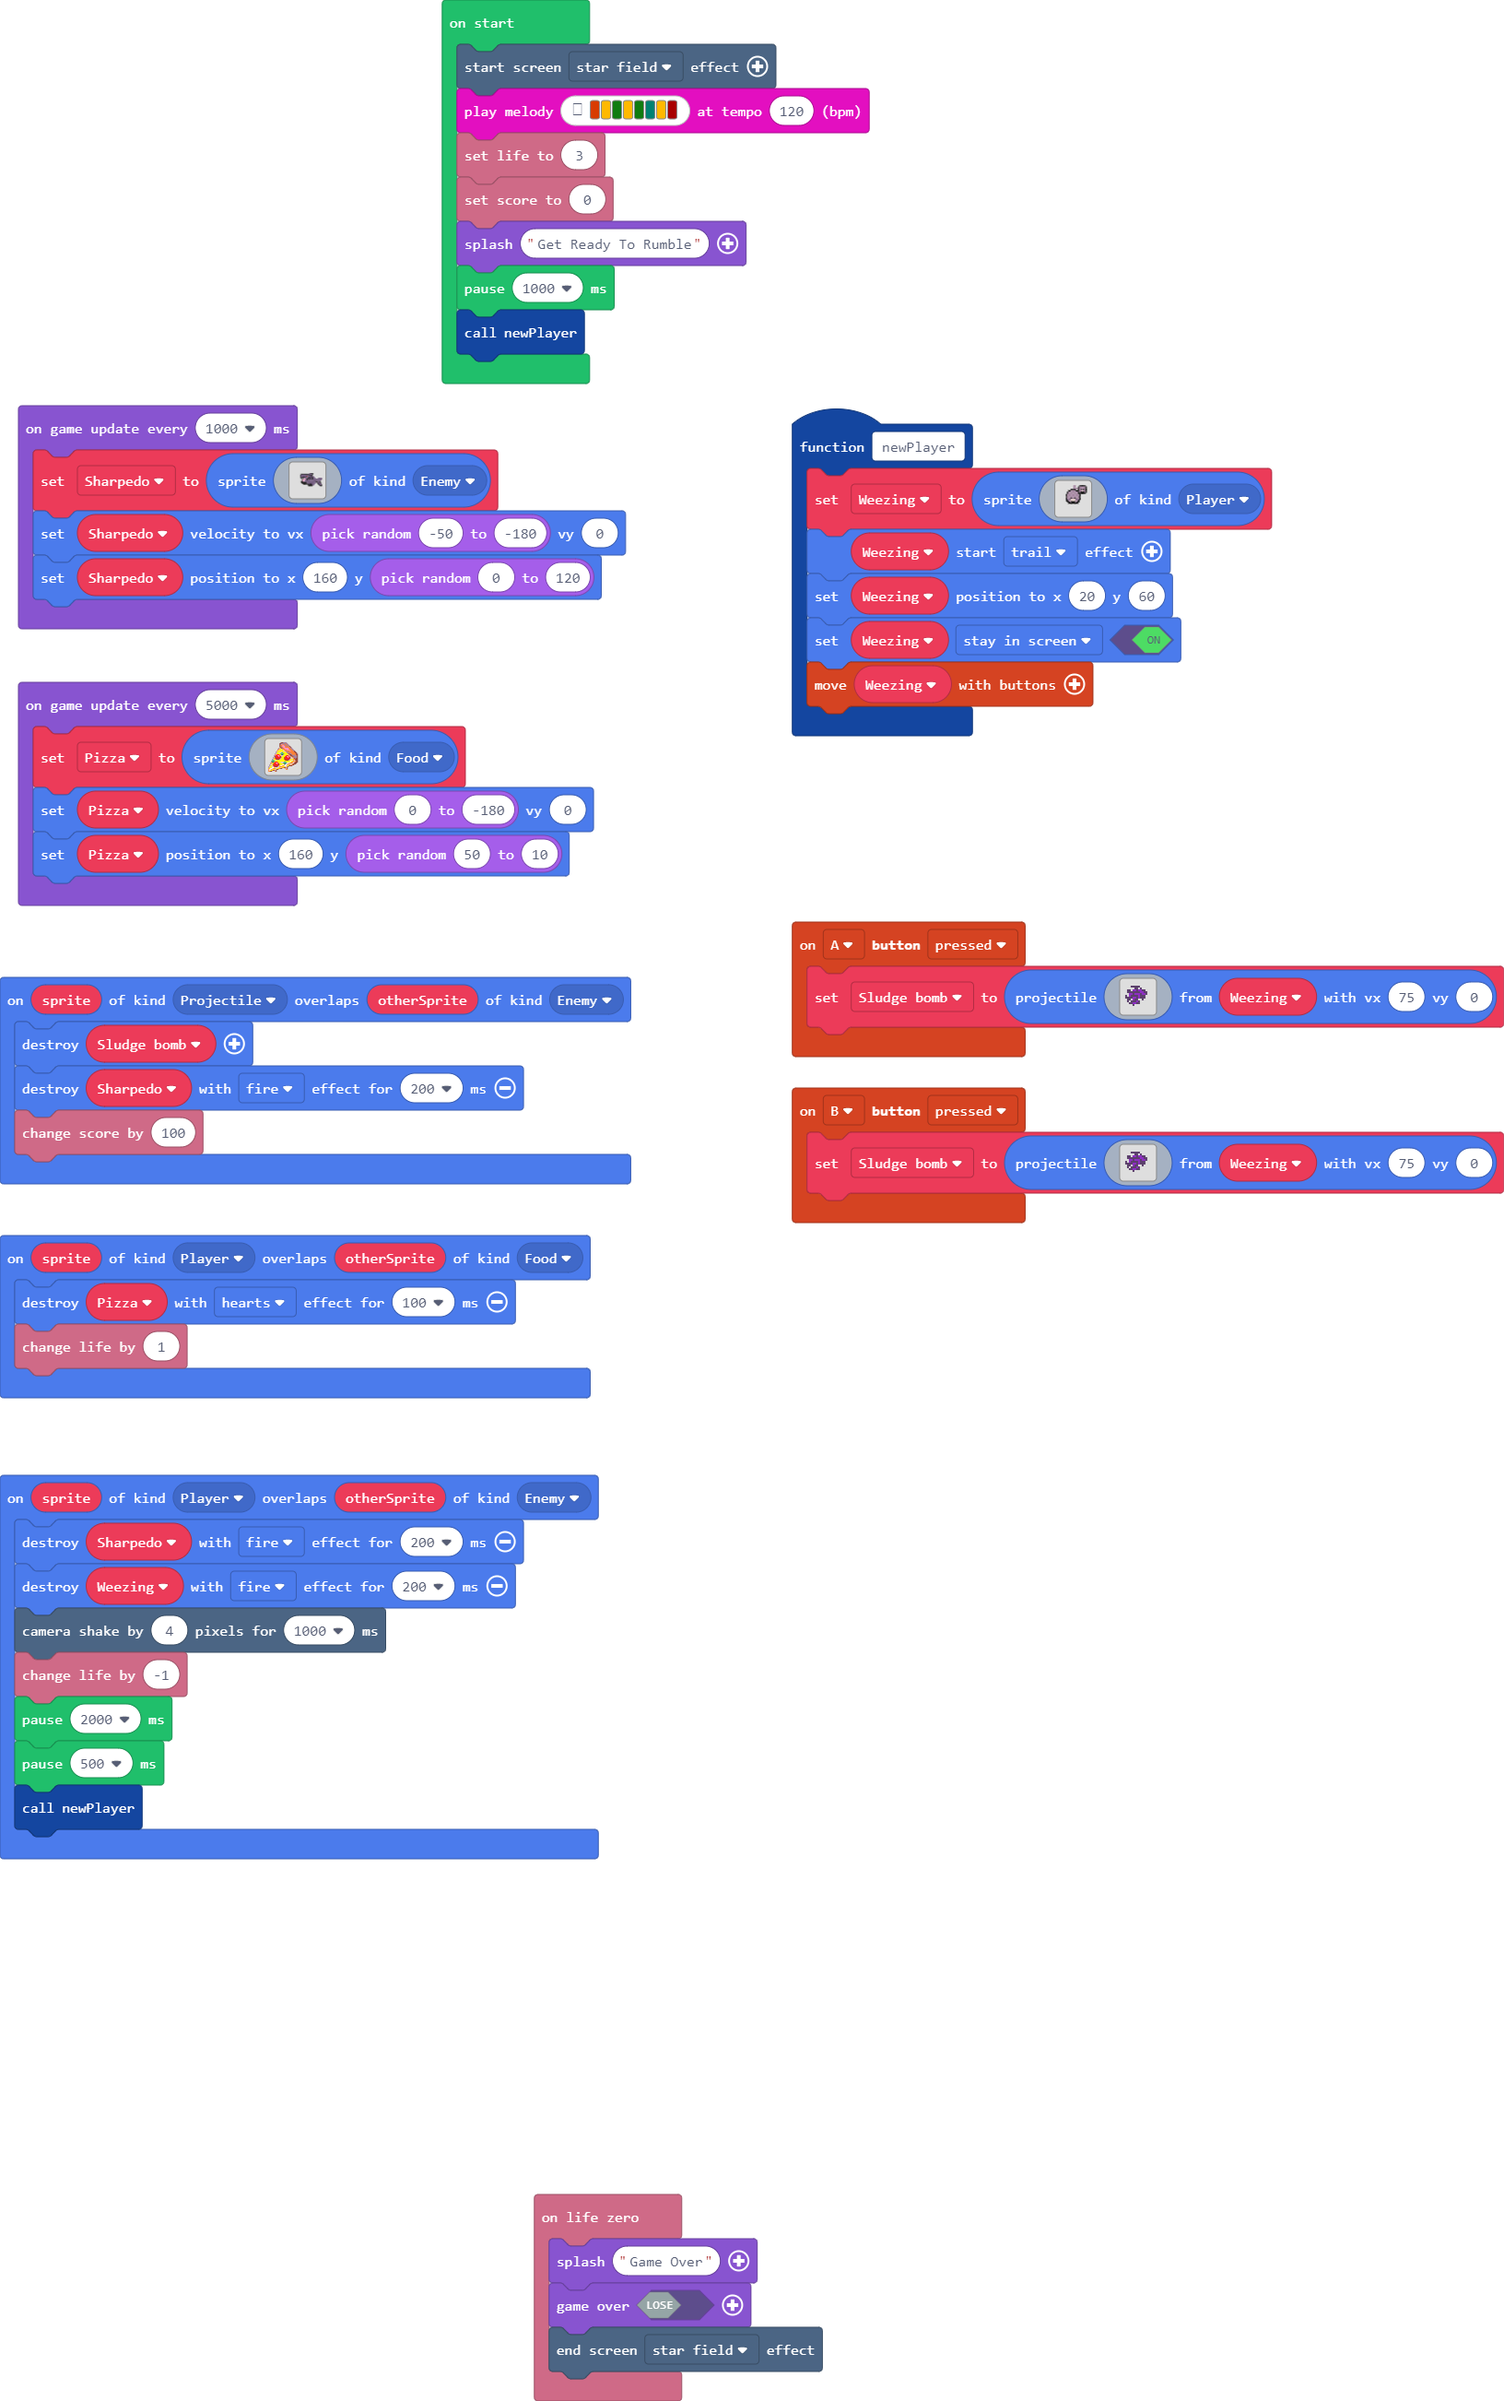
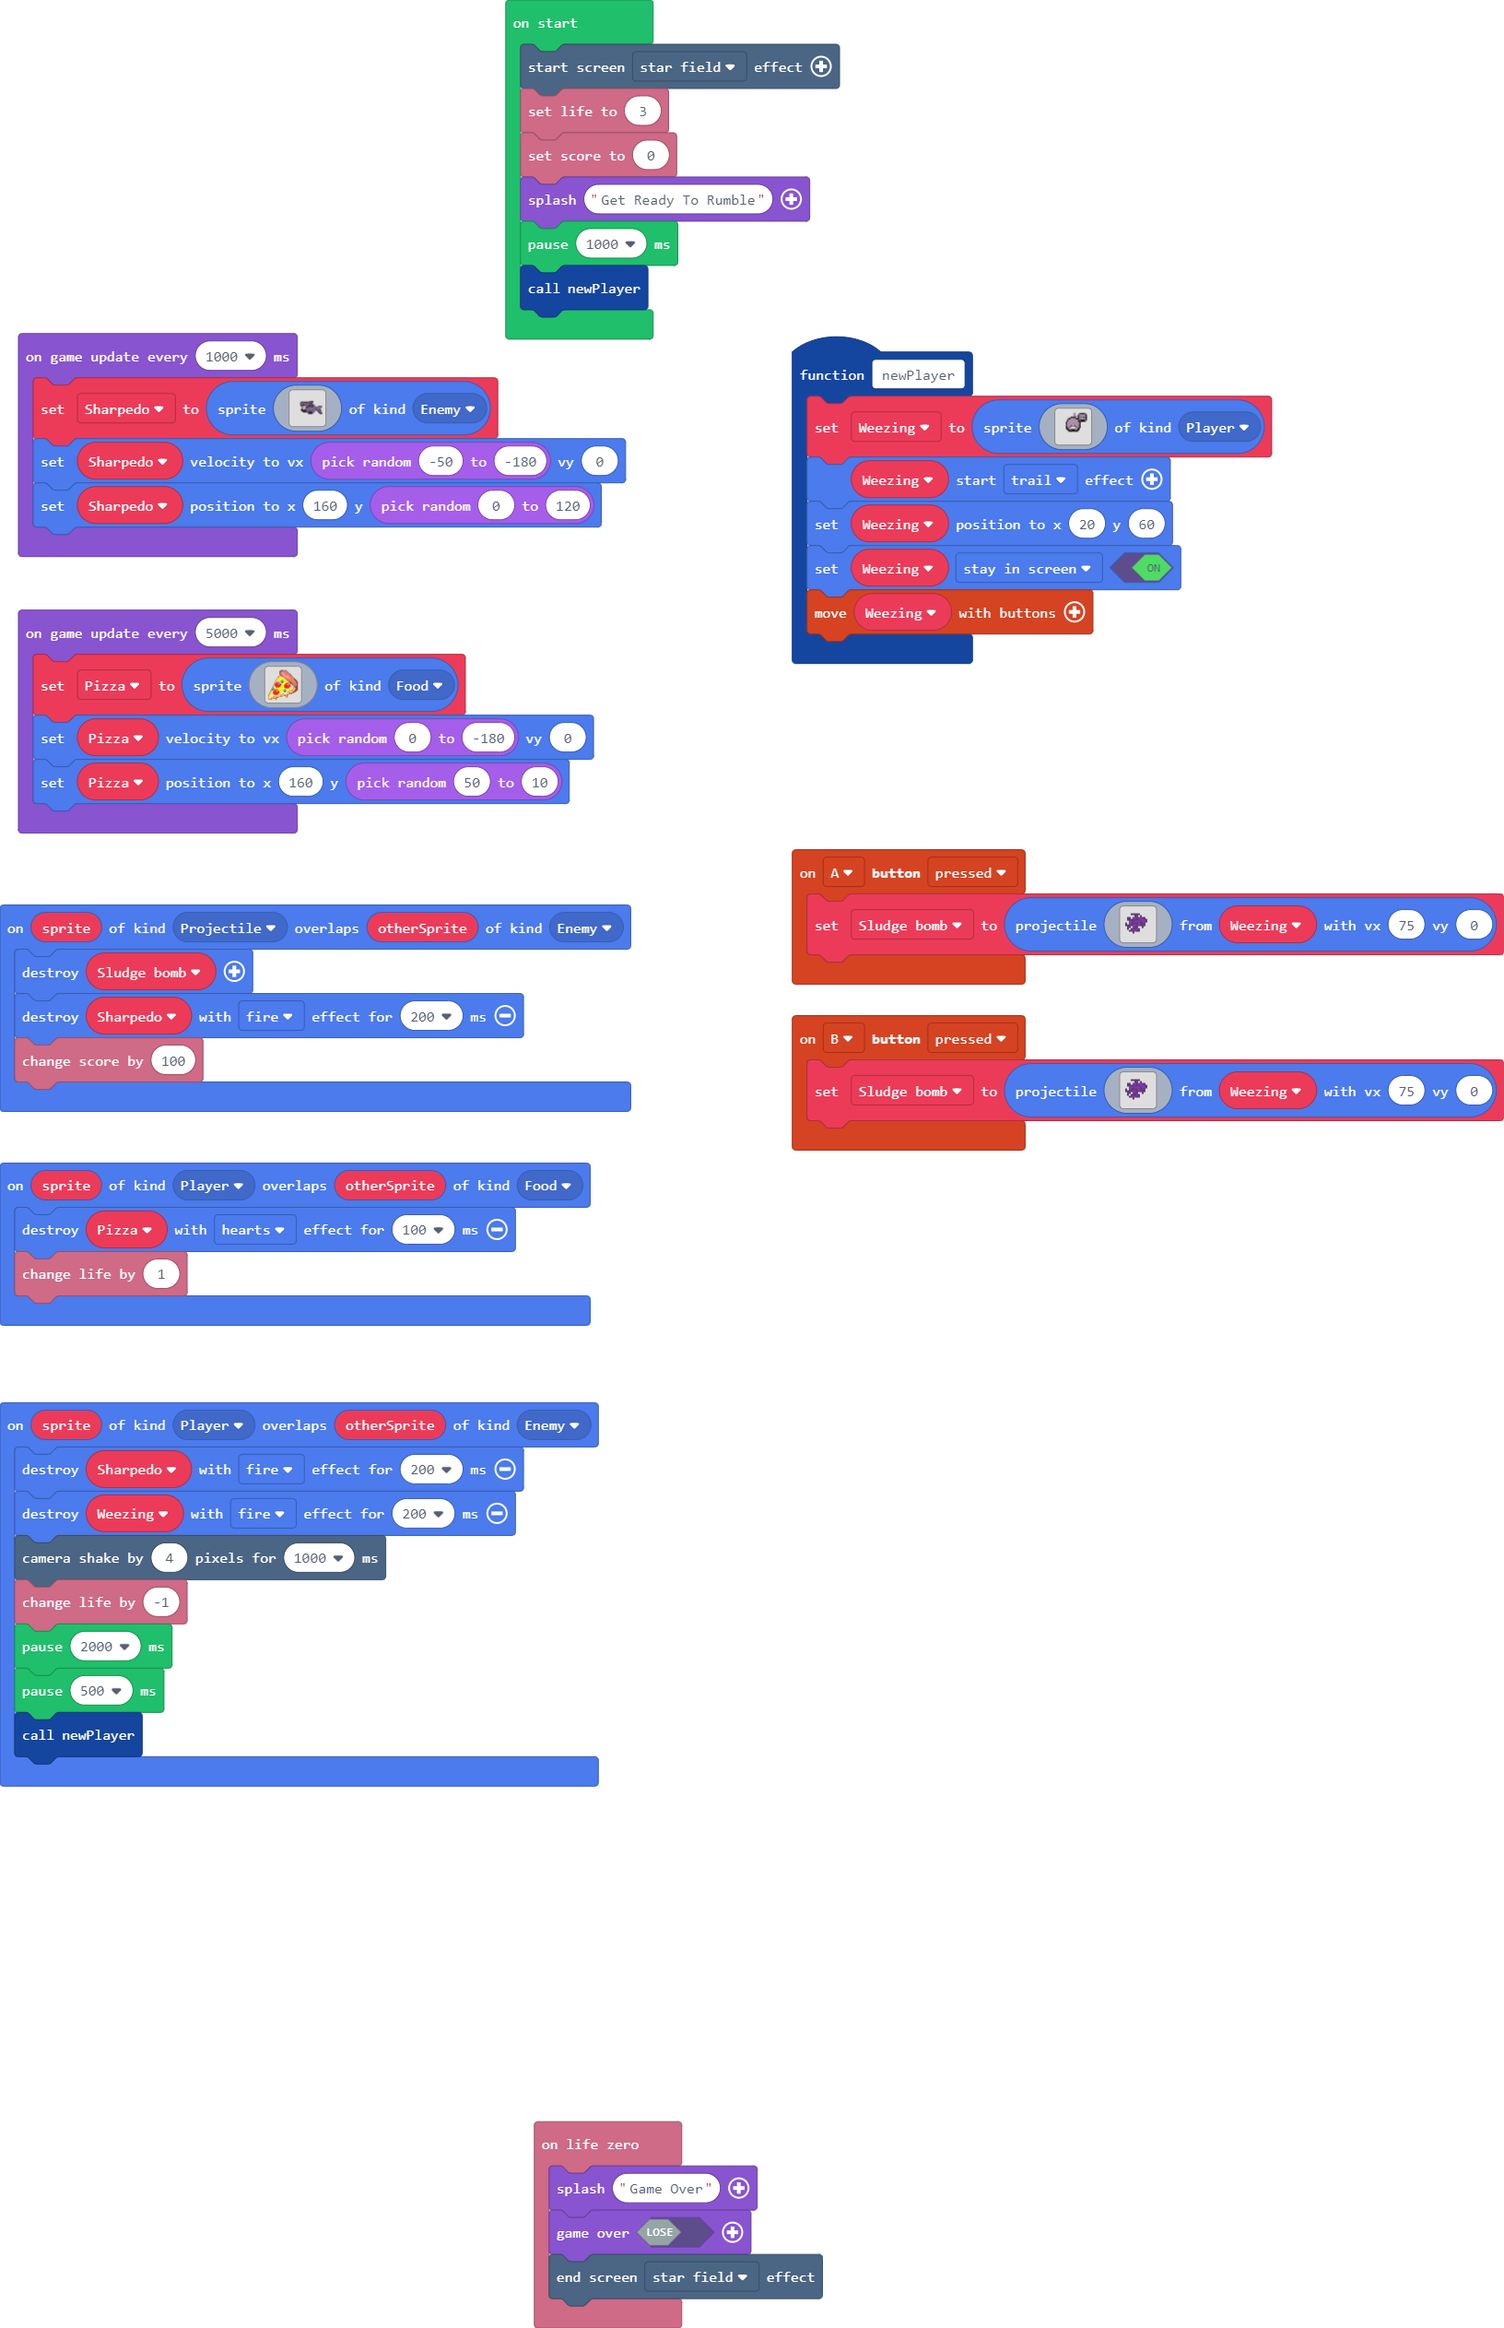
renamed game and removed melody

diff --git a/main.ts b/main.ts
@@ -98,7 +98,6 @@ let Pizza: Sprite = null
 let Sludge_bomb: Sprite = null
 let Weezing: Sprite = null
 effects.starField.startScreenEffect()
-music.playMelody("B A G A G F A C5 ", 120)
 info.setLife(3)
 info.setScore(0)
 game.splash("Get Ready To Rumble")
